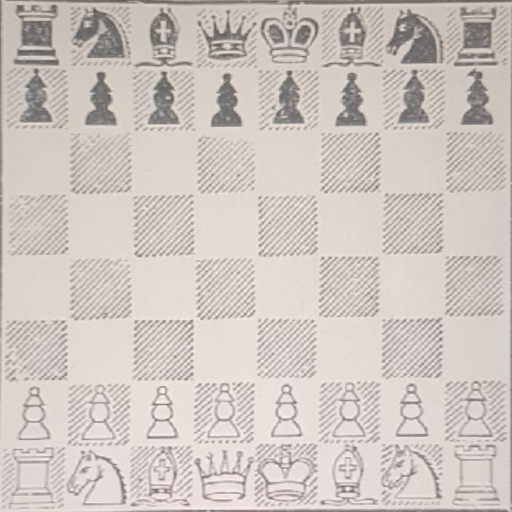
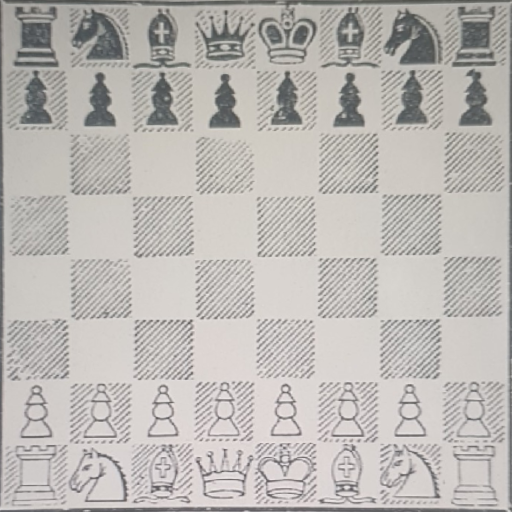
Input images adjustments + adding books set4 pieces

Changed region(s): [[0.0, 0.0, 1.0, 1.0], [0.5, 0.375, 0.625, 0.5], [0.375, 0.5, 0.5, 0.625]]

diff --git a/src/bagaturchess/scanner/RecognitionMain_DeepNetts.java b/src/bagaturchess/scanner/RecognitionMain_DeepNetts.java
@@ -75,10 +75,12 @@ public class RecognitionMain_DeepNetts {
 			//Object image = ImageHandlerSingleton.getInstance().loadImageFromFS("./data/tests/books/input2.png");
 			//Object image = ImageHandlerSingleton.getInstance().loadImageFromFS("./data/tests/Ismail/initial_board_cropped.png");
 			
-			Object image = ImageHandlerSingleton.getInstance().loadImageFromFS("./res/cnn/books/set1/input1.png");
+			//Object image = ImageHandlerSingleton.getInstance().loadImageFromFS("./res/cnn/books/set1/input1.png");
 			//Object image = ImageHandlerSingleton.getInstance().loadImageFromFS("./data/tests/books/set2/test2.png");
 			//Object image = ImageHandlerSingleton.getInstance().loadImageFromFS("./data/tests/books/set3/test1.png");
 			//Object image = ImageHandlerSingleton.getInstance().loadImageFromFS("./data/tests/chess.com/test5.png");
+			
+			Object image = ImageHandlerSingleton.getInstance().loadImageFromFS("./res/others/Customers.Boards/lichess_set1_a.jpg");
 			
 			long startTime = System.currentTimeMillis();
 			

diff --git a/src/bagaturchess/scanner/machinelearning/learning/impl_deepnetts/TrainingUtils.java b/src/bagaturchess/scanner/machinelearning/learning/impl_deepnetts/TrainingUtils.java
@@ -21,7 +21,7 @@ public class TrainingUtils {
 	
 	public static final AutoTuningParameters CNN_CHESS24COM_SET1 	= new AutoTuningParameters(2, 2, 1, 2, 2, 9, 0.017168421f, 0.19f);
 	
-	public static final AutoTuningParameters CNN_LICHESSORG_SET1 	= new AutoTuningParameters(2, 2, 1, 2, 2, 9, 0.017168421f , 0.19f);
+	public static final AutoTuningParameters CNN_LICHESSORG_SET1 	= new AutoTuningParameters(2, 2, 1, 2, 2, 9, 0.017168421f, 0.19f);
 	
 	public static final AutoTuningParameters CNN_UNIVERSAL 			= new AutoTuningParameters(2, 2, 1, 3, 2, 9, 0.027075f, 0.05f);
 	

diff --git a/src/bagaturchess/scanner/machinelearning/learning/impl_deepnetts/ScannerLearning_Tuning_Edition_Community12.java b/src/bagaturchess/scanner/machinelearning/learning/impl_deepnetts/ScannerLearning_Tuning_Edition_Community12.java
@@ -10,7 +10,6 @@ import deepnetts.net.train.TrainingListener;
 import deepnetts.util.DeepNettsException;
 import deepnetts.eval.ClassifierEvaluator;
 import deepnetts.eval.ConfusionMatrix;
-import javafx.collections.transformation.SortedList;
 
 import javax.visrec.ml.eval.EvaluationMetrics;
 import deepnetts.net.layers.activation.ActivationType;

diff --git a/src/bagaturchess/scanner/machinelearning/learning/impl_deepnetts/ScannerLearning_Tuning_Edition_Pro13.java b/src/bagaturchess/scanner/machinelearning/learning/impl_deepnetts/ScannerLearning_Tuning_Edition_Pro13.java
@@ -10,7 +10,6 @@ import deepnetts.net.train.TrainingListener;
 import deepnetts.util.DeepNettsException;
 import deepnetts.eval.ClassifierEvaluator;
 import deepnetts.eval.ConfusionMatrix;
-import javafx.collections.transformation.SortedList;
 
 import javax.visrec.ml.eval.EvaluationMetrics;
 import deepnetts.net.layers.activation.ActivationType;
